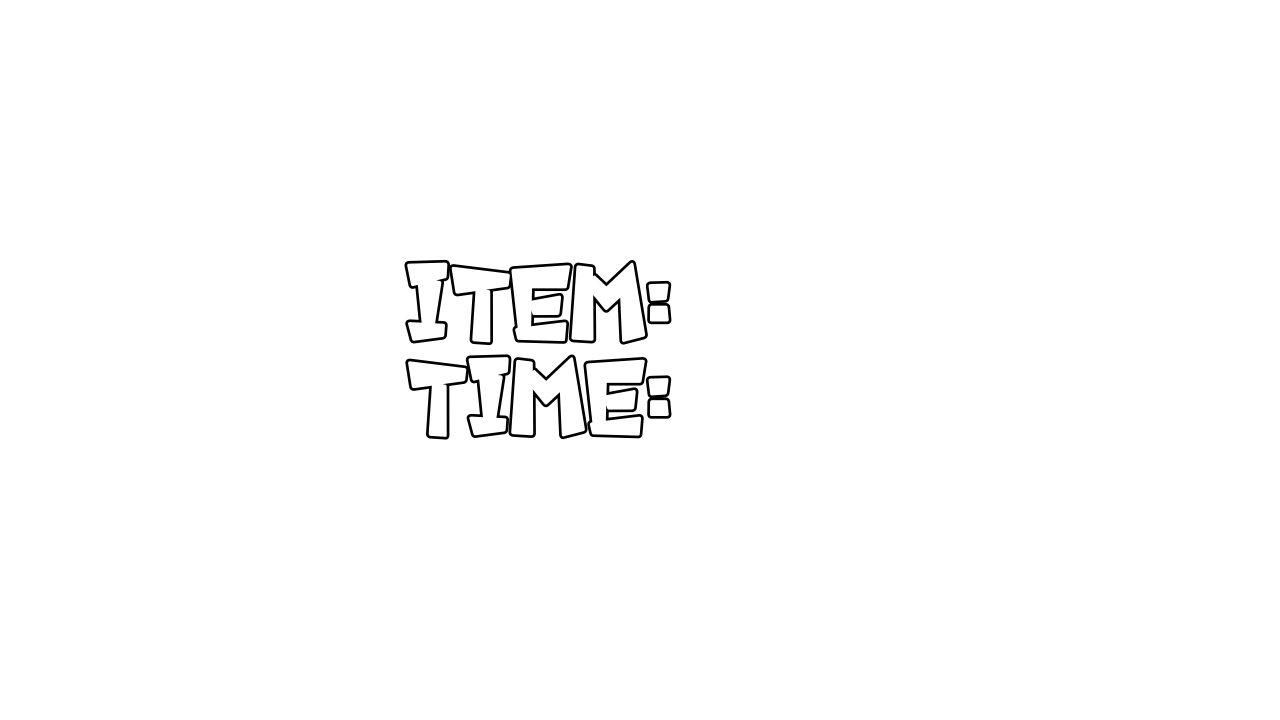
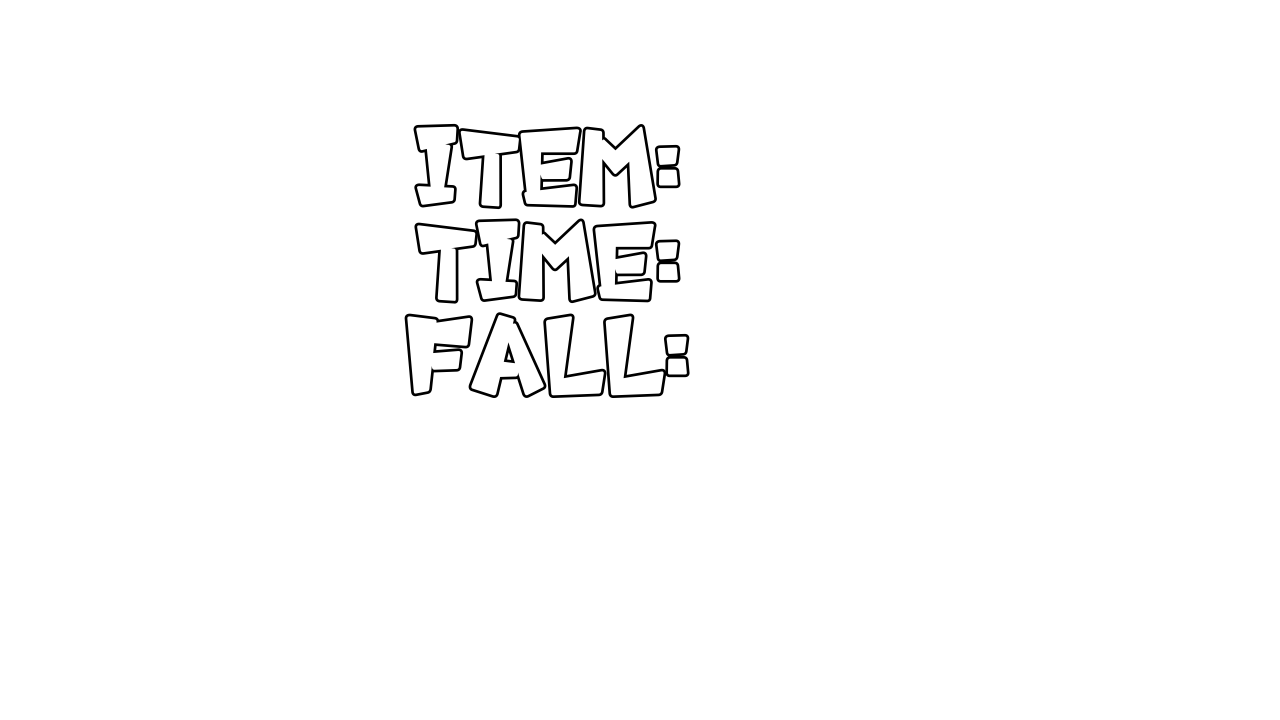
クリア画面

Changed region(s): [[0.3125, 0.1528, 0.5625, 0.6111]]

diff --git a/project/gamedata/scenes/GameClearScene.cpp b/project/gamedata/scenes/GameClearScene.cpp
@@ -19,9 +19,8 @@ void GameClearScene::Initialize() {
 	//テクスチャ
 	spriteResource_[0] = textureManager_->Load("project/gamedata/resources/UI/bg.png");
 	spriteResource_[1] = textureManager_->Load("project/gamedata/resources/UI/ResultUI.png");
-	spriteResource_[2] = textureManager_->Load("project/gamedata/resources/UI/GoalUI.png");
+	spriteResource_[2] = textureManager_->Load("project/gamedata/resources/UI/GoalTab.png");
 	spriteResource_[3] = textureManager_->Load("project/gamedata/resources/UI/Cursor.png");
-	starTextureHandle_ = textureManager_->Load("project/gamedata/resources/UI/star.png");
 
 	for (int i = 0; i < 4; i++)
 	{
@@ -41,30 +40,60 @@ void GameClearScene::Initialize() {
 		sprite_[i]->SetAnchor(Vector2{ 0.5f,0.5f });
 	}
 
-	spriteTransform_[1].translate.num[0] = 520.0f;
-	spriteTransform_[1].translate.num[1] = 300.0f;
+	spriteTransform_[1].translate.num[0] = 580.0f;
+	spriteTransform_[1].translate.num[1] = 385.0f;
 
+	starTextureHandle_ = textureManager_->Load("project/gamedata/resources/UI/star.png");
 	for (uint32_t index = 0; index < 3; index++) {
 		starSprite_[index] = std::make_unique<CreateSprite>();
 		starSprite_[index]->Initialize({ starTextureSize_, starTextureSize_ }, starTextureHandle_);
 		starSprite_[index]->SetAnchor(Vector2{ 0.5f, 0.5f });
 	}
-	starTransform_ = { {1.0f,1.0f,1.0f},{0.0f,0.0f,0.0f},{800.0f, 150.0f,0.0f} };
+	starTransform_ = { {1.0f,1.0f,1.0f},{0.0f,0.0f,0.0f},{849.0f, 185.0f,0.0f} };
 
+	emptyStarTextureHandle_ = textureManager_->Load("project/gamedata/resources/UI/emptyStar.png");
+	for (uint32_t index = 0; index < 3; index++) {
+		emptyStarSprite_[index] = std::make_unique<CreateSprite>();
+		emptyStarSprite_[index]->Initialize({ emptyStarTextureSize_, emptyStarTextureSize_ }, emptyStarTextureHandle_);
+		emptyStarSprite_[index]->SetAnchor(Vector2{ 0.5f, 0.5f });
+	}
+	emptyStarTransform_ = { {1.0f,1.0f,1.0f},{0.0f,0.0f,0.0f},{500.0f, 90.0f,0.0f} };
 
-	itemNumbers_ = std::make_unique<Numbers>();
-	itemNumbers_->Initialize();
-	itemNumbers_->SetInitialNum(0 / 60);
-	itemNumbersTransform_ = { {1.0f, 1.0f, 1.0f}, { 0.0f,0.0f,0.0f}, {430.0f,215.0f,0.0f} };
+	targetItemNumbers_ = std::make_unique<Numbers>();
+	targetItemNumbers_->Initialize();
+	targetItemNumbers_->SetInitialNum(0 / 60);
+	targetItemNumbersTransform_ = { {1.0f, 1.0f, 1.0f}, { 0.0f,0.0f,0.0f}, {580.0f,165.0f,0.0f} };
+
+	getItemNumbers_ = std::make_unique<Numbers>();
+	getItemNumbers_->Initialize();
+	getItemNumbers_->SetInitialNum(0 / 60);
+	getItemNumbersTransform_ = { {1.0f, 1.0f, 1.0f}, { 0.0f,0.0f,0.0f}, {500.0f,165.0f,0.0f} };
+
+	fractionTextureHandle_ = textureManager_->Load("project/gamedata/resources/fraction.png");
+	for (int32_t index = 0; index < 2; index++) {
+		fractionSprites_[index] = std::make_unique<CreateSprite>();
+		fractionSprites_[index]->Initialize({ 48.0f, 48.0f }, fractionTextureHandle_);
+		fractionSprites_[index]->SetAnchor({ 0.5f, 0.5f });
+	}
+	fractionTransform_[0] = { {1.0f, 1.0f ,1.0f}, {0.0f, 0.0f, 0.0f}, {715.0f,190.0f,0.0f} };
+	fractionTransform_[1] = { {1.0f, 1.0f ,1.0f}, {0.0f, 0.0f, 0.0f}, {830.0f,285.0f,0.0f} };
+
 
 	//クリアタイム
 	timer_ = std::make_unique<Timer>();
 	timer_->Initialize();
 	timer_->SetInitialNum(0 / 60);
-	timerTransform_ = { {1.0f, 1.0f, 1.0f}, { 0.0f,0.0f,0.0f}, {420.0f,310.0f,0.0f} };
+	timerTransform_ = { {1.0f, 1.0f, 1.0f}, { 0.0f,0.0f,0.0f}, {480.0f,260.0f,0.0f} };
 
 	//Datas
 	datas_ = Datas::GetInstance();
+
+	targets_[0] = {};
+	targets_[1] = {};
+	targets_[2] = {};
+	targets_[3] = {};
+	targets_[4] = {};
+	targets_[5] = {};
 }
 
 void GameClearScene::Update() {
@@ -76,17 +105,34 @@ void GameClearScene::Update() {
 
 		spriteTransform_[3].translate.num[1] = 690.0f;
 
-		achievementCount_ = 0;
+		achievement_ = { 0, 0, 0 };
+
+		if (datas_->GetItem() < 10) {
+			getItemNumbers_->SetDrawCount(1);
+		}
+
+		targetItemNumbers_->SetNum(1);
+		targetItemNumbers_->SetDrawCount(1);
+		targetItemNumbers_->SetTransform(targetItemNumbersTransform_);
+
+		getItemNumbers_->SetNum(datas_->GetItem());
+		getItemNumbers_->SetTransform(getItemNumbersTransform_);
 
 		isSceneStart_ = false;
 	}
+	targetItemNumbers_->SetTransform(targetItemNumbersTransform_);
+	getItemNumbers_->SetTransform(getItemNumbersTransform_);
 
-	if (datas_->GetClearTime() < 10.0f) {
-		achievementCount_ = 1;
+	if (datas_->GetItem() == targets_->item) {
+		achievement_.num[0] = 1.0f;
+	}
+	if (datas_->GetClearTime() <= targets_->time) {
+		achievement_.num[1] = 1.0f;
+	}
+	if (!datas_->GetFell()) {
+		achievement_.num[2] = 1.0f;
 	}
 
-	itemNumbers_->SetNum(1 / 60);
-	itemNumbers_->SetTransform(itemNumbersTransform_);
 	timer_->SetNum(datas_->GetClearTime());
 	timer_->SetTransform(timerTransform_);
 
@@ -113,10 +159,13 @@ void GameClearScene::Update() {
 	ImGui::Begin("debug");
 	ImGui::Text("GameClearScene");
 	ImGui::DragFloat3("SWTFT", &spriteTransform_[3].translate.num[0], 0.0f, 2280.0f);
-	ImGui::DragFloat3("trans", itemNumbersTransform_.translate.num, 0.0f, 2280.0f);
+	ImGui::DragFloat3("Result", &spriteTransform_[1].translate.num[0], 0.0f, 2280.0f);
 	ImGui::DragFloat3("star", starTransform_.translate.num, 0.0f, 2280.0f);
-	ImGui::DragFloat3("item", itemNumbersTransform_.translate.num, 0.0f, 2280.0f);
+	ImGui::DragFloat3("TargetItem", targetItemNumbersTransform_.translate.num, 0.0f, 2280.0f);
+	ImGui::DragFloat3("GetItem", getItemNumbersTransform_.translate.num, 0.0f, 2280.0f);
 	ImGui::DragFloat3("time", timerTransform_.translate.num, 0.0f, 2280.0f);
+	ImGui::DragFloat3("fraction", fractionTransform_[1].translate.num, 0.0f, 2280.0f);
+	ImGui::DragFloat3("empty", emptyStarTransform_.translate.num, 0.0f, 2280.0f);
 	ImGui::End();
 
 	//左側(現在のステージを繰り返し)
@@ -247,13 +296,35 @@ void GameClearScene::Draw() {
 
 	sprite_[3]->Draw(spriteTransform_[3], SpriteuvTransform_[3], spriteMaterial_[3]);
 
-	for (uint32_t index = 0; index < achievementCount_; index++) {
-		EulerTransform transform = starTransform_;
-		transform.translate.num[1] += starTextureSize_ * index;
-		starSprite_[index]->Draw(transform, SpriteuvTransform_[0], { 1.0f, 1.0f, 1.0f, 1.0f });
+	for (uint32_t index = 0; index < 3; index++) {
+		EulerTransform emptyTransform = emptyStarTransform_;
+		emptyTransform.translate.num[0] += (emptyStarTextureSize_ + 70.0f) * index;
+		emptyStarSprite_[index]->Draw(emptyTransform, spriteTransform_[0], { 1.0f, 1.0f, 1.0f, 1.0f });
+
+		if (achievement_.num[index] > 0.0f) {
+			EulerTransform transform = starTransform_;
+			switch (index)
+			{
+			case 0:
+				transform.translate.num[1] += starTextureSize_ * index;
+				break;
+			case 1:
+				transform.translate.num[1] += starTextureSize_ * index - 5.0f;
+				break;
+			case 2:
+				transform.translate.num[1] += starTextureSize_ * index - 4.5f;
+				break;
+			}
+			starSprite_[index]->Draw(emptyTransform, SpriteuvTransform_[0], { 1.0f, 1.0f, 1.0f, 1.0f });
+		}
 	}
 
-	itemNumbers_->Draw();
+	targetItemNumbers_->Draw();
+	for (uint32_t index = 0; index < 2; index++) {
+		fractionSprites_[index]->Draw(fractionTransform_[index], SpriteuvTransform_[0], { 1.0f, 1.0f, 1.0f, 1.0f });
+	}
+	getItemNumbers_->Draw();
+
 	timer_->Draw();
 #pragma endregion
 }

diff --git a/project/gamedata/scenes/GameClearScene.h b/project/gamedata/scenes/GameClearScene.h
@@ -13,6 +13,11 @@
 #include "timer/Timer.h"
 
 class GameClearScene :public Iscene {
+	struct Target {
+		int item;
+		float time;
+	};
+
 public:
 	void Initialize() override;
 	void Update() override;
@@ -45,14 +50,30 @@ private:
 	EulerTransform starTransform_;
 	const float starTextureSize_ = 96.0f;
 
+	std::unique_ptr <CreateSprite> emptyStarSprite_[3];
+	uint32_t emptyStarTextureHandle_;
+	EulerTransform emptyStarTransform_;
+	const float emptyStarTextureSize_ = 97.0f;
+
 	bool isSpriteDraw_[4];
 
+	// ステージごとの目標
+	Target targets_[6];
 	// 達成数
-	uint32_t achievementCount_;
+	Vector3 achievement_;
 
-	// アイテム
-	std::unique_ptr<Numbers> itemNumbers_;
-	EulerTransform itemNumbersTransform_;
+	// 目標アイテム数
+	std::unique_ptr<Numbers> targetItemNumbers_;
+	EulerTransform targetItemNumbersTransform_;
+	// 獲得アイテム
+	std::unique_ptr<Numbers> getItemNumbers_;
+	EulerTransform getItemNumbersTransform_;
+
+	// 
+	uint32_t fractionTextureHandle_;
+	std::unique_ptr<CreateSprite> fractionSprites_[2];
+	EulerTransform fractionTransform_[2];
+
 	//int nowTime_ = 0;
 	// クリアタイム
 	std::unique_ptr<Timer> timer_;

diff --git a/project/gamedata/datas/datas.h b/project/gamedata/datas/datas.h
@@ -25,13 +25,21 @@ public:
 	void SetUIResrouce(VectorInt4 uiResrouce) { uiResrouce_ = uiResrouce; }
 	bool GetUIResrouce() { return isReset_; }
 
+	void SetItem(int getItem) { getItem_ = getItem; }
+	int GetItem() { return getItem_; }
+
+	void SetFell(bool fell) { fell_ = fell; }
+	bool GetFell() { return fell_; }
+
 private:
 	Datas() = default;
 	~Datas() = default;
 	Datas(const Datas& obj) = default;
 	Datas& operator=(const Datas& obj) = default;
 
+	int getItem_;
 	float clearTime_;
+	bool fell_;
 
 	int stageNum_ = 0;
 

diff --git a/project/gamedata/numbers/numbers.h b/project/gamedata/numbers/numbers.h
@@ -15,6 +15,7 @@ public:
 	void SetInitialNum(int initialNum) { initialNum_ = initialNum; };
 	void SetSpace(int space) { space_ = space; };
 	void SetColor(Vector4 color) { color_ = color; };
+	void SetDrawCount(int32_t drawCount) { drawCount_ = drawCount; }
 
 	void SetTransform(EulerTransform transform);
 
@@ -43,4 +44,7 @@ private:
 
 	std::array<std::unique_ptr<CreateSprite>, kDigits> Sprites_;
 	uint32_t numberTextureHandle_ = 0;
+
+	// 何桁表示するか
+	int32_t drawCount_ = 3;
 };

diff --git a/project/gamedata/numbers/numbers.cpp b/project/gamedata/numbers/numbers.cpp
@@ -13,7 +13,7 @@ void Numbers::Initialize() {
 void Numbers::Draw() {
 	int32_t drawNum;
 	EulerTransform uv = { {1.0f,1.0f / 10.0f,1.0f},{0.0f,0.0f,0.0f},{0.0f,0.0f,0.0f} };
-	for (int index = 0; index < kDigits; index++) {
+	for (int index = 0; index < drawCount_; index++) {
 		drawNum = num_ / int(std::pow(10, kDigits - index - 1));
 		drawNum %= 10;
 		uv.translate.num[1] = 0.1f * float(drawNum);

diff --git a/project/gamedata/scenes/GameTitleScene.cpp b/project/gamedata/scenes/GameTitleScene.cpp
@@ -80,7 +80,7 @@ void GameTitleScene::Update(){
 	ImGui::End();
 
 	if (input_->TriggerKey(DIK_SPACE)) {
-		sceneNo = SELECT_SCENE;
+		sceneNo = CLEAR_SCENE;
 		audio_->SoundPlayWave(selectData_, 0.1f, false);
 	}
 
